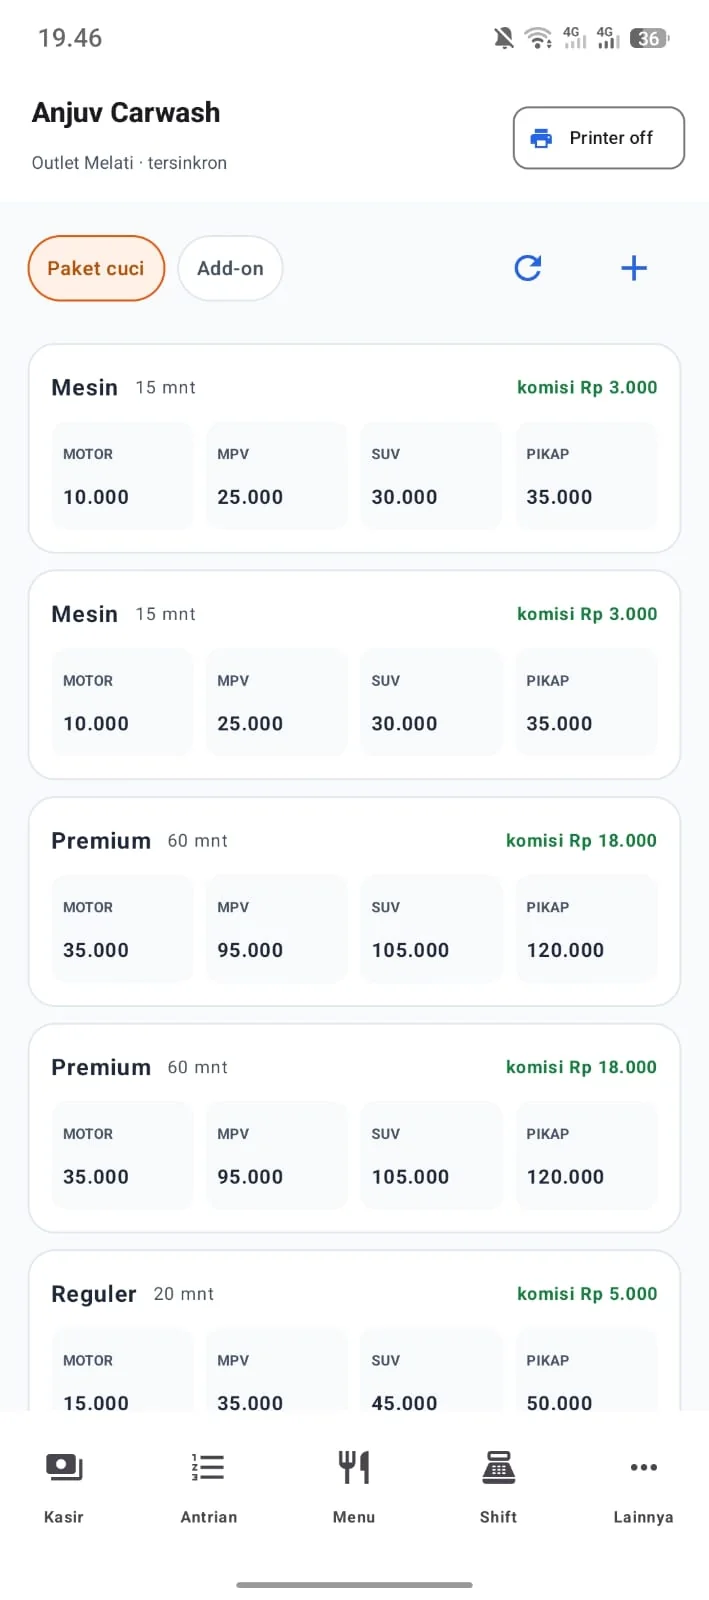
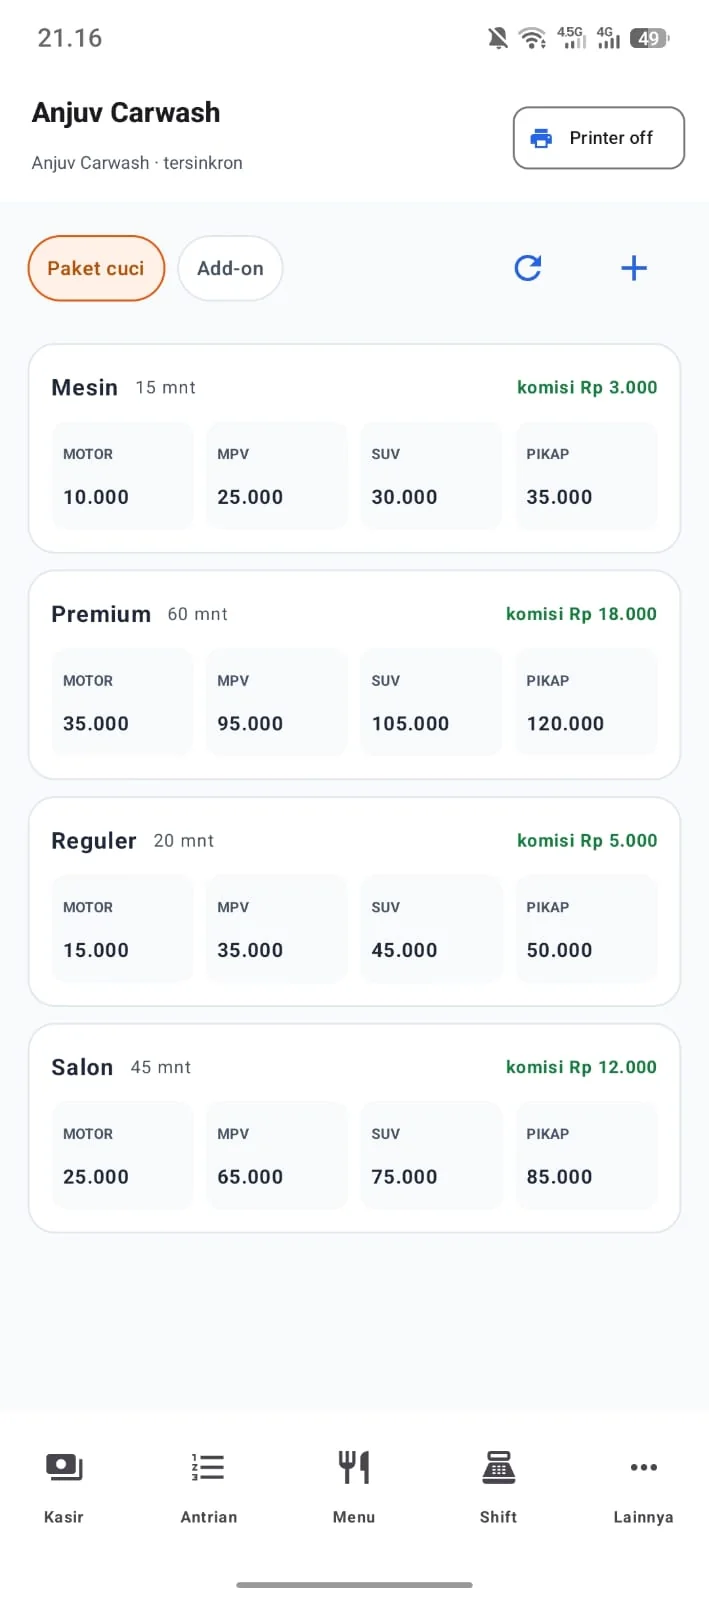
feat(produk): pratinjau layar Layanan & harga di halaman ZX Carwash

diff --git a/src/app/produk/zx-car-wash/page.tsx b/src/app/produk/zx-car-wash/page.tsx
@@ -201,6 +201,26 @@ export default async function ZXCarwashPage() {
           </div>
         </section>
 
+        {/* pratinjau aplikasi */}
+        <section className="border-t border-gray-800 py-16">
+          <div className="mx-auto mb-10 max-w-xl text-center">
+            <p className="text-[11px] font-bold uppercase tracking-widest text-cyan-400">Tampilan</p>
+            <h2 className="mt-3 text-3xl font-extrabold tracking-tight">Layanan dan harga dalam satu layar</h2>
+            <p className="mt-3 text-sm leading-relaxed text-gray-400">
+              Paket cuci dengan harga per jenis kendaraan dan komisi tukang, berdampingan dengan add-on — diatur sendiri
+              dari HP kasir.
+            </p>
+          </div>
+          <div className="mx-auto w-full max-w-[290px] overflow-hidden rounded-[2rem] border border-gray-700 bg-gray-900 p-2 shadow-2xl shadow-black/60">
+            {/* eslint-disable-next-line @next/next/no-img-element */}
+            <img
+              src="/images/zxcarwash/dashboard.webp"
+              alt="Layanan dan harga paket cuci di ZX Carwash"
+              className="block w-full rounded-[1.6rem]"
+            />
+          </div>
+        </section>
+
         {/* fitur */}
         <section id="fitur" className="border-t border-gray-800 py-16">
           <div className="mx-auto mb-10 max-w-xl text-center">
